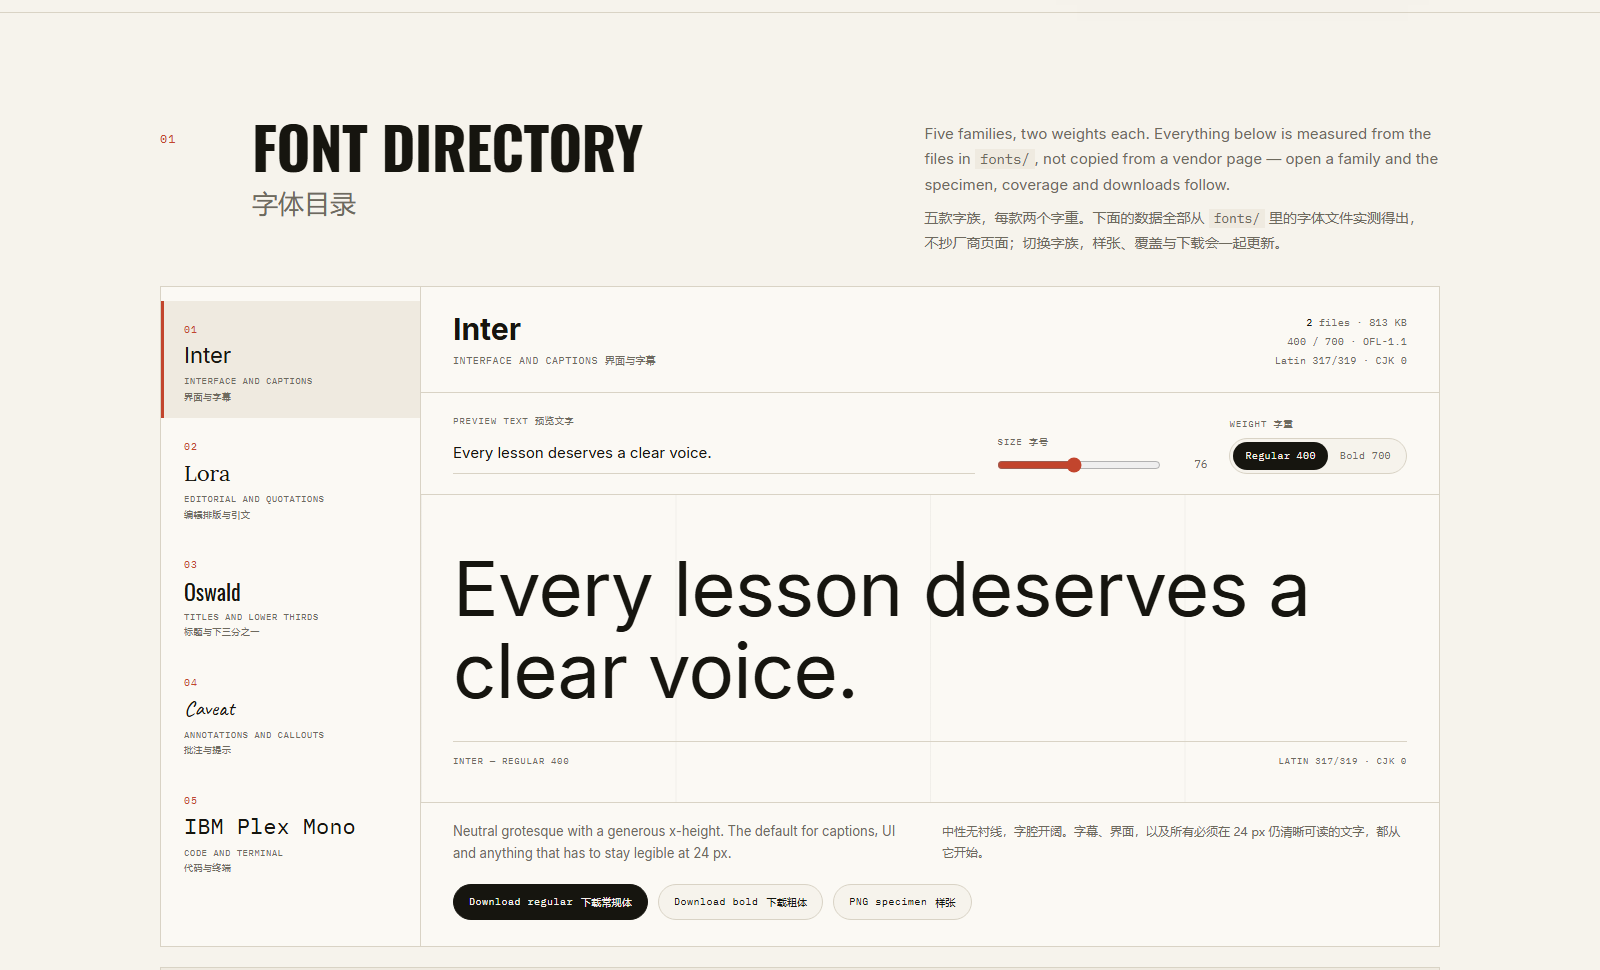
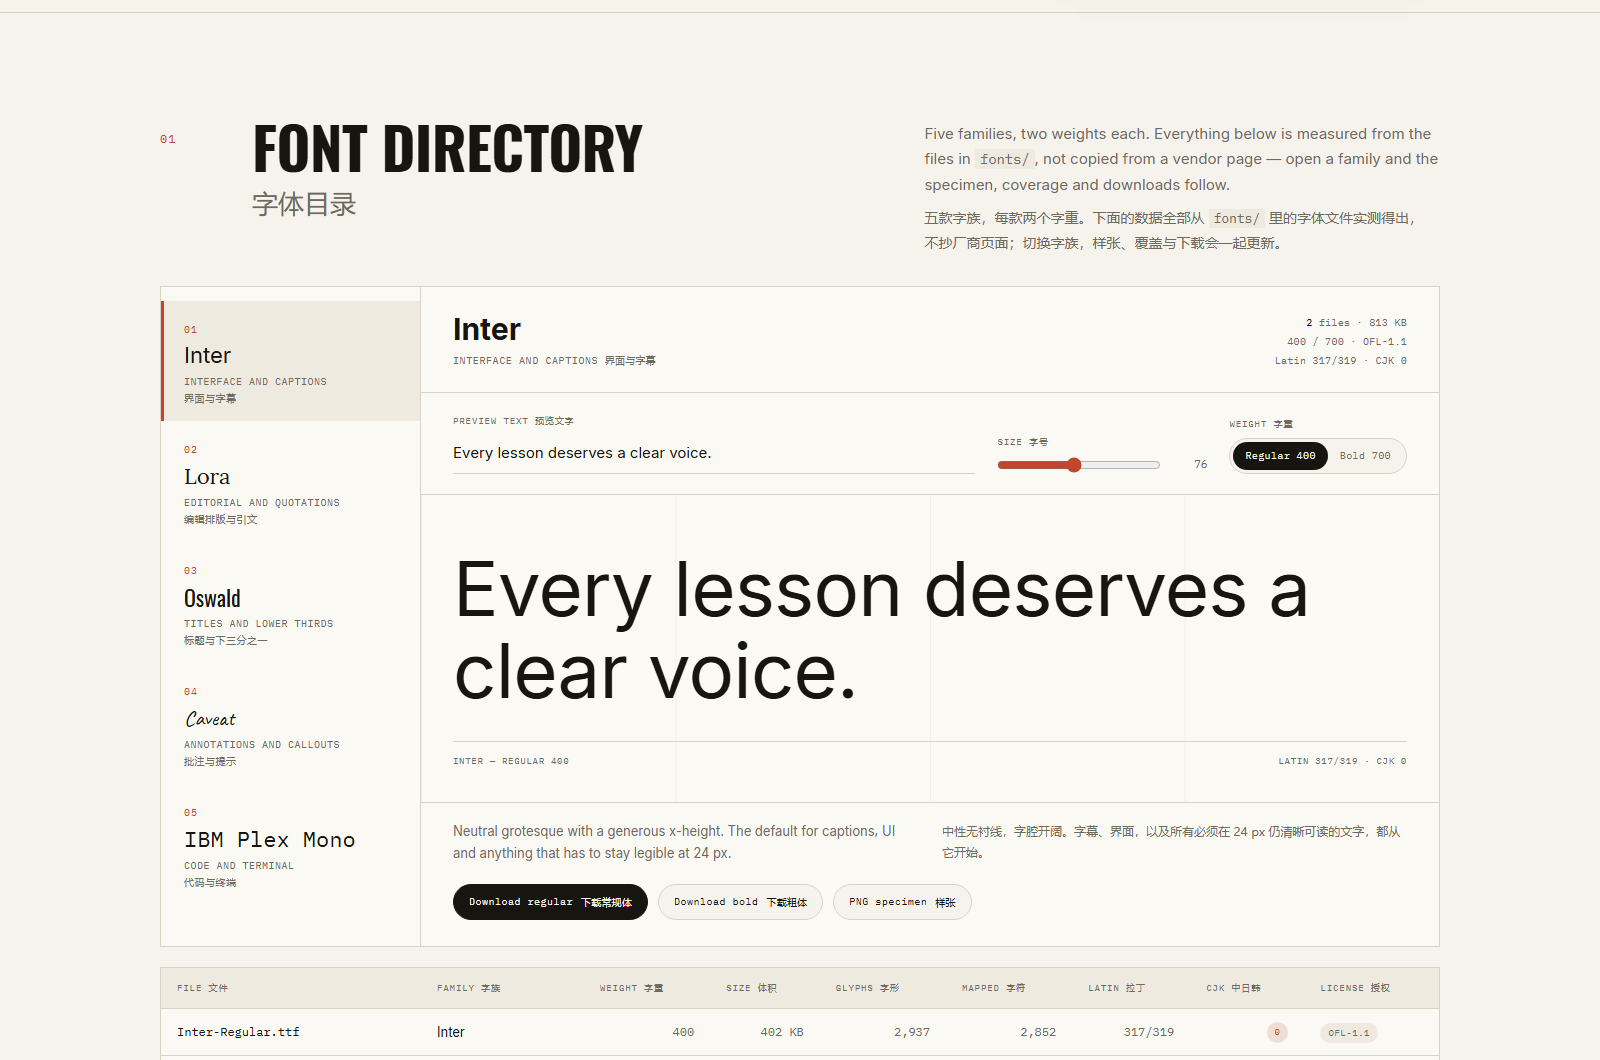
feat: polish showcase labels and add social metadata

diff --git a/index.html b/index.html
@@ -6,6 +6,12 @@
   <title>Video Workflow · 视频工作流 — Font kit and lesson pipeline · 字体套件与课程流程</title>
   <meta name="description" content="A bilingual lesson-video workflow: TTS, forced alignment, bilingual captions, and a curated ten-file type kit. 双语课程视频工作流：语音合成、强制对齐、双语字幕与十款开源字体。">
   <meta name="theme-color" content="#f6f3ec">
+  <meta property="og:type" content="website">
+  <meta property="og:title" content="Video Workflow / 视频工作流">
+  <meta property="og:description" content="A bilingual lesson-video workflow — voice, timing, captions, and a measured 10-file type kit. 双语课程视频工作流：配音、时间轴、字幕与实测的十款字体。">
+  <meta property="og:url" content="https://edwinzdz.github.io/video-workflow/">
+  <meta property="og:image" content="https://edwinzdz.github.io/video-workflow/docs/previews/font-wall.png">
+  <meta name="twitter:card" content="summary_large_image">
   <link rel="stylesheet" href="assets/site.css">
 </head>
 <body id="top">

diff --git a/assets/site.css b/assets/site.css
@@ -432,7 +432,7 @@ button {
 
 .stack .role {
   font-family: var(--mono);
-  font-size: 8px;
+  font-size: 9px;
   letter-spacing: 0.06em;
   color: var(--dark-muted);
   text-transform: uppercase;
@@ -559,7 +559,7 @@ button {
 .family-list .role {
   display: block;
   font-family: var(--mono);
-  font-size: 9px;
+  font-size: 10px;
   letter-spacing: 0.05em;
   text-transform: uppercase;
   color: var(--muted);

diff --git a/docs/WORKFLOW.md b/docs/WORKFLOW.md
@@ -85,9 +85,11 @@ reference. Do not upgrade a pin without re-running those checks.
 
 ## Caption Specification / 字幕规范
 
-**EN** — The numbers below are enforced by `tools/build_captions.py`; they are not suggestions.
+**EN** — The numbers below are checked by `tools/build_captions.py`. Line count, overlap and a
+sub-second cue stop the build with an error; CPS and over-long cues are warnings you should review.
 
-**中文** — 下面的数字由 `tools/build_captions.py` 强制执行，不是建议值。
+**中文** — 下面的数字由 `tools/build_captions.py` 检查。行数、重叠与不足 1 秒会报错并让构建失败；
+CPS 超限与过长字幕只报警告，需要人工复核。
 
 | Rule / 规则 | Value / 值 | Why / 原因 |
 | --- | --- | --- |
